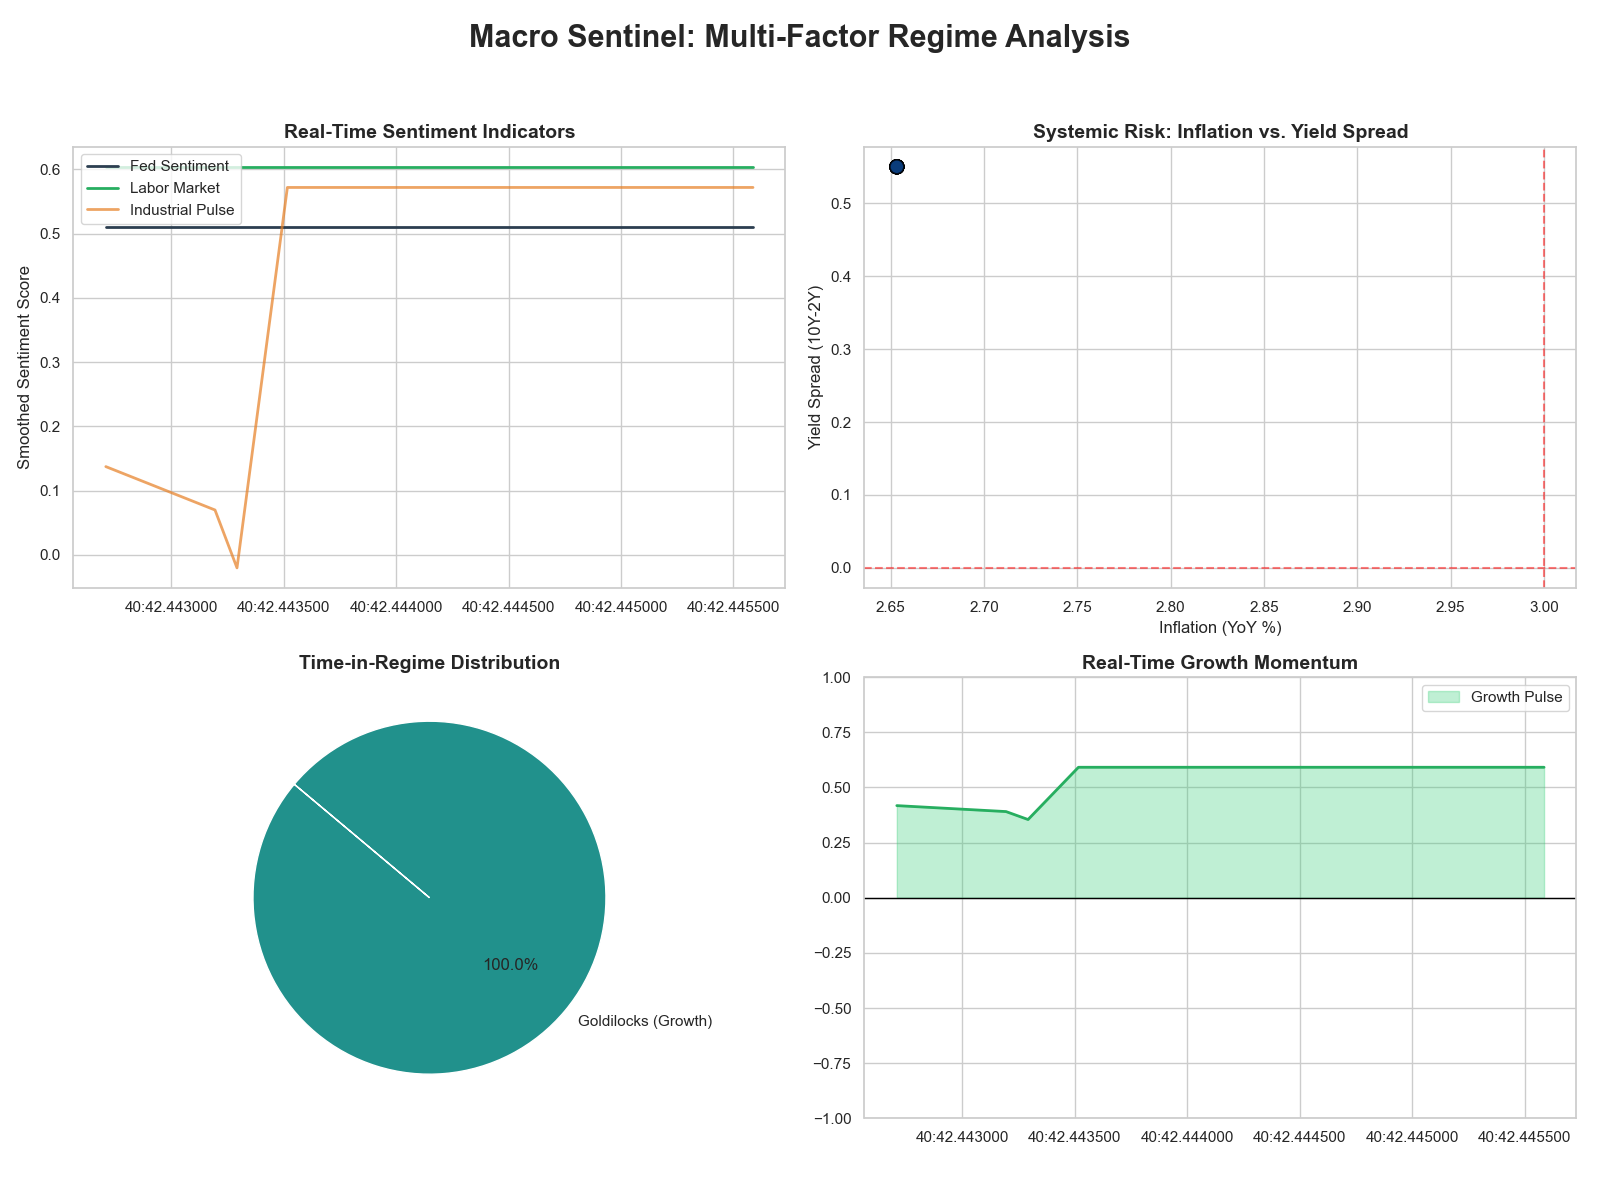
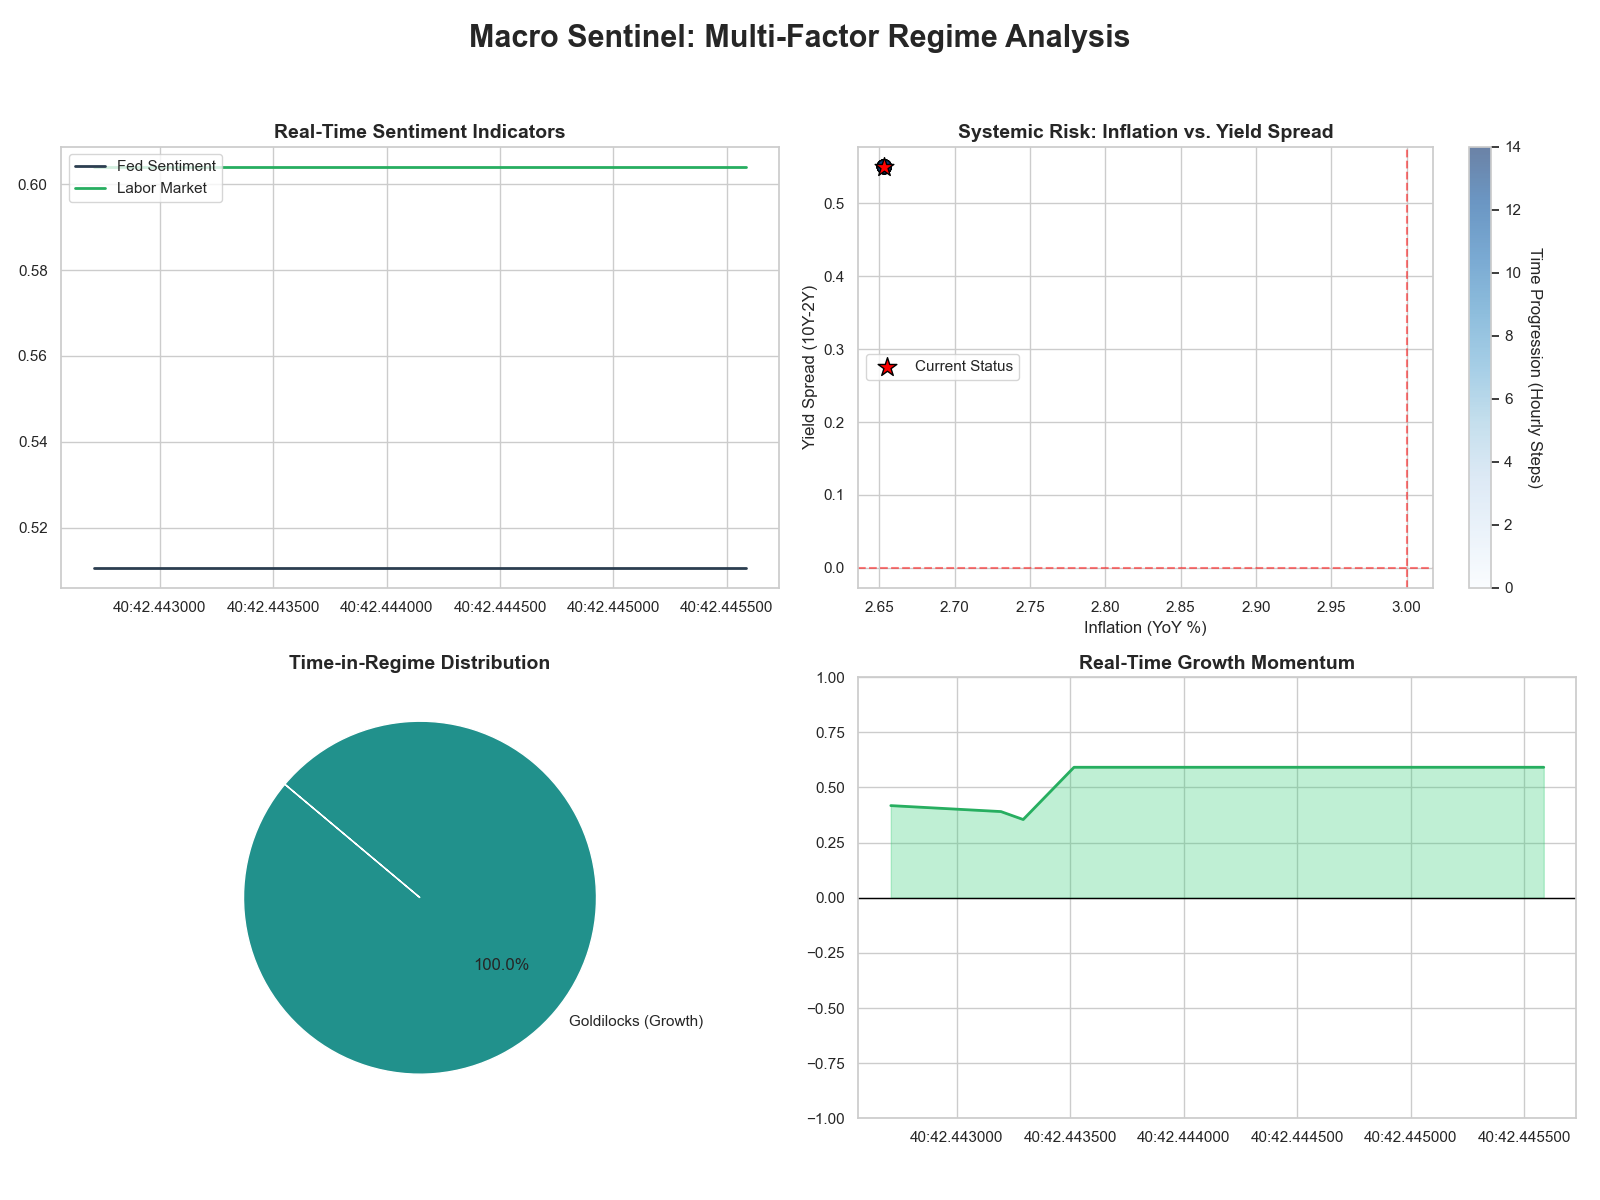
feat: automate full end-to-end analyst workflow

diff --git a/src/visualization/dashboard.py b/src/visualization/dashboard.py
@@ -3,7 +3,7 @@ import matplotlib.pyplot as plt
 import seaborn as sns
 import os
 
-# Environment-Agnostic Path Management
+# Path Management
 SCRIPT_DIR = os.path.dirname(os.path.abspath(__file__))
 BASE_DIR = os.path.dirname(os.path.dirname(SCRIPT_DIR))
 REGIME_DATA = os.path.join(BASE_DIR, "data", "processed", "regime_v2_status.csv")
@@ -11,39 +11,44 @@ OUTPUT_CHART = os.path.join(BASE_DIR, "output", "macro_sentinel_dashboard.png")
 
 def create_dashboard():
     if not os.path.exists(REGIME_DATA):
-        print(f"[ERROR] No regime data found at {REGIME_DATA}. Run regime_engine_v2.py first.")
+        print(f"[ERROR] No regime data found. Run regime_engine_v2.py first.")
         return
 
-    # Load and setup
     df = pd.read_csv(REGIME_DATA, parse_dates=['Timestamp'])
     sns.set_theme(style="whitegrid")
 
-    # Create a 2x2 Dashboard
     fig, axes = plt.subplots(2, 2, figsize=(16, 12))
     fig.suptitle('Macro Sentinel: Multi-Factor Regime Analysis', fontsize=22, fontweight='bold', y=0.98)
 
     # 1. Sentiment Streams (Top Left)
     axes[0, 0].plot(df['Timestamp'], df['Monetary_Policy'], label='Fed Sentiment', color='#2c3e50', lw=2)
     axes[0, 0].plot(df['Timestamp'], df['Labor_Market'], label='Labor Market', color='#27ae60', lw=2)
-    axes[0, 0].plot(df['Timestamp'], df['Manufacturing'], label='Industrial Pulse', color='#e67e22', lw=2, alpha=0.7)
     axes[0, 0].set_title('Real-Time Sentiment Indicators', fontsize=14, fontweight='semibold')
     axes[0, 0].legend(loc='upper left')
-    axes[0, 0].set_ylabel('Smoothed Sentiment Score')
 
-    # 2. Risk Matrix (Top Right)
+    # 2. Risk Matrix (Top Right) - FIXED with Colorbar & Current Marker
     scatter = axes[0, 1].scatter(df['Inflation_YoY'], df['Yield_Curve_10Y2Y'], 
                                  c=range(len(df)), cmap='Blues', s=100, edgecolors='black', alpha=0.6)
+    
+    # Adding the colorbar to show time progression
+    cbar = fig.colorbar(scatter, ax=axes[0, 1])
+    cbar.set_label('Time Progression (Hourly Steps)', rotation=270, labelpad=15)
+    
+    # Highlight the LATEST point in Red to show where we are NOW
+    axes[0, 1].scatter(df['Inflation_YoY'].iloc[-1], df['Yield_Curve_10Y2Y'].iloc[-1], 
+                       color='red', marker='*', s=200, edgecolors='black', label='Current Status', zorder=5)
+
     axes[0, 1].axhline(0, color='red', linestyle='--', alpha=0.5)
     axes[0, 1].axvline(3.0, color='red', linestyle='--', alpha=0.5)
     axes[0, 1].set_title('Systemic Risk: Inflation vs. Yield Spread', fontsize=14, fontweight='semibold')
     axes[0, 1].set_xlabel('Inflation (YoY %)')
     axes[0, 1].set_ylabel('Yield Spread (10Y-2Y)')
+    axes[0, 1].legend()
 
     # 3. Regime Distribution (Bottom Left)
     regime_counts = df['Regime_V2'].value_counts()
     axes[1, 0].pie(regime_counts, labels=regime_counts.index, autopct='%1.1f%%', 
-                   colors=sns.color_palette('viridis', n_colors=len(regime_counts)),
-                   startangle=140)
+                   colors=sns.color_palette('viridis', n_colors=len(regime_counts)), startangle=140)
     axes[1, 0].set_title('Time-in-Regime Distribution', fontsize=14, fontweight='semibold')
 
     # 4. Growth Momentum Pulse (Bottom Right)
@@ -53,13 +58,11 @@ def create_dashboard():
     axes[1, 1].set_title('Real-Time Growth Momentum', fontsize=14, fontweight='semibold')
     axes[1, 1].set_ylim(-1, 1)
     axes[1, 1].axhline(0, color='black', lw=1)
-    axes[1, 1].legend()
 
     plt.tight_layout(rect=[0, 0.03, 1, 0.95])
-    
     os.makedirs(os.path.dirname(OUTPUT_CHART), exist_ok=True)
     plt.savefig(OUTPUT_CHART)
-    print(f"[SUCCESS] Dashboard generated: {OUTPUT_CHART}")
+    print(f"[SUCCESS] Dashboard generated with time-tracking: {OUTPUT_CHART}")
 
 if __name__ == "__main__":
     create_dashboard()
